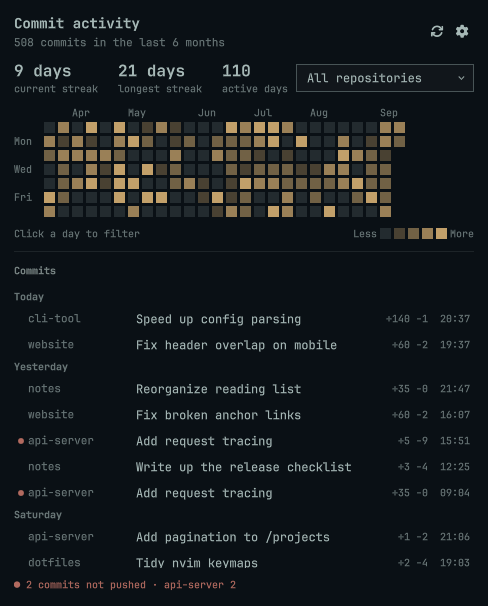
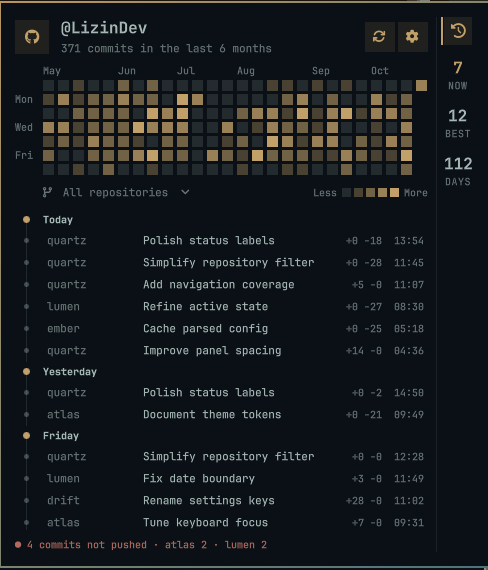
docs: descreve o novo painel de histórico, atualiza a captura e sobe para 1.2.0

diff --git a/README.md b/README.md
@@ -17,20 +17,26 @@ its bar.
   the date, commits, lines added and removed, and the repositories. A small dot
   after the strip means some of your commits are not on any remote yet; hover
   it to see where.
-- **Left click: history panel.** A contribution graph for the last six months
-  (or three months, or a year), your current and longest streak, and active
-  days. A searchable repository picker narrows everything to one repository
-  (so does clicking a repository name in the list), and clicking a day narrows
-  the list to that day. Clicking a commit opens it on GitHub, GitLab or
-  Bitbucket; a commit with nowhere to open (not pushed yet, or a remote with no
-  web page) copies its hash instead. Keys: `r` refresh, `s` settings, `a`
-  clear the filters, `Esc` close.
+- **Left click: history panel.** It opens on your GitHub id (the `githubId`
+  setting, or inferred from your repositories' GitHub remotes) and a line that
+  sums up the period, which turns into a readout of the day or commit under
+  the pointer. The contribution graph spans the panel (six months, or three,
+  or a year), and a slim rail on the bar's side of the panel keeps your current
+  and longest streak and active days in view. Under the graph, `All
+  repositories` opens a searchable repository filter, and a picked day shows
+  as a filter you can clear; clicking a repository name in the list filters
+  too. The commits read as a logbook: a timeline grouped by day, densely
+  packed, with a red dot on commits no remote has yet, and the graph outlines
+  a commit's day while you hover it. Clicking a commit opens it on GitHub,
+  GitLab or Bitbucket; a commit with nowhere to open (not pushed yet, or a
+  remote with no web page) copies its hash instead. Keys: `r` refresh, `s`
+  settings, `a` clear the filters, `Esc` close.
 - **Right click: settings.** Days shown, commits or lines, theme or GitHub
   colors, graph length, outline today, the unpushed dot, and merge commits.
   Every change is saved to `shell.json` straight away.
 - **Middle click** refreshes.
 
-![The history panel: contribution graph, streaks, repository picker and commits](history-panel.png)
+![The history panel: GitHub id, contribution graph, repository filter, commit timeline and streak rail](history-panel.png)
 
 Colors come from the active Omarchy theme (its accent mixed into the theme
 background) and change with it when you switch themes. With GitHub colors the
@@ -119,6 +125,7 @@ omarchy bar set io.github.lizindev.commit-tracker roots '["~/Projects", "~/Work"
 | `roots` | `["~"]` | Folders to search for repositories (array or comma-separated). |
 | `maxDepth` | `4` | Folder levels below each root to search. |
 | `authors` | `[]` | Emails or names to count; empty uses your git identity. |
+| `githubId` | `""` | GitHub profile id shown in the panel; empty infers it from repository remotes. |
 | `levels` | `"default"` | Four ascending lower bounds, e.g. `"1,3,6,10"`. |
 | `refreshIntervalSec` | `300` | Fallback poll; commits already refresh within seconds. |
 
